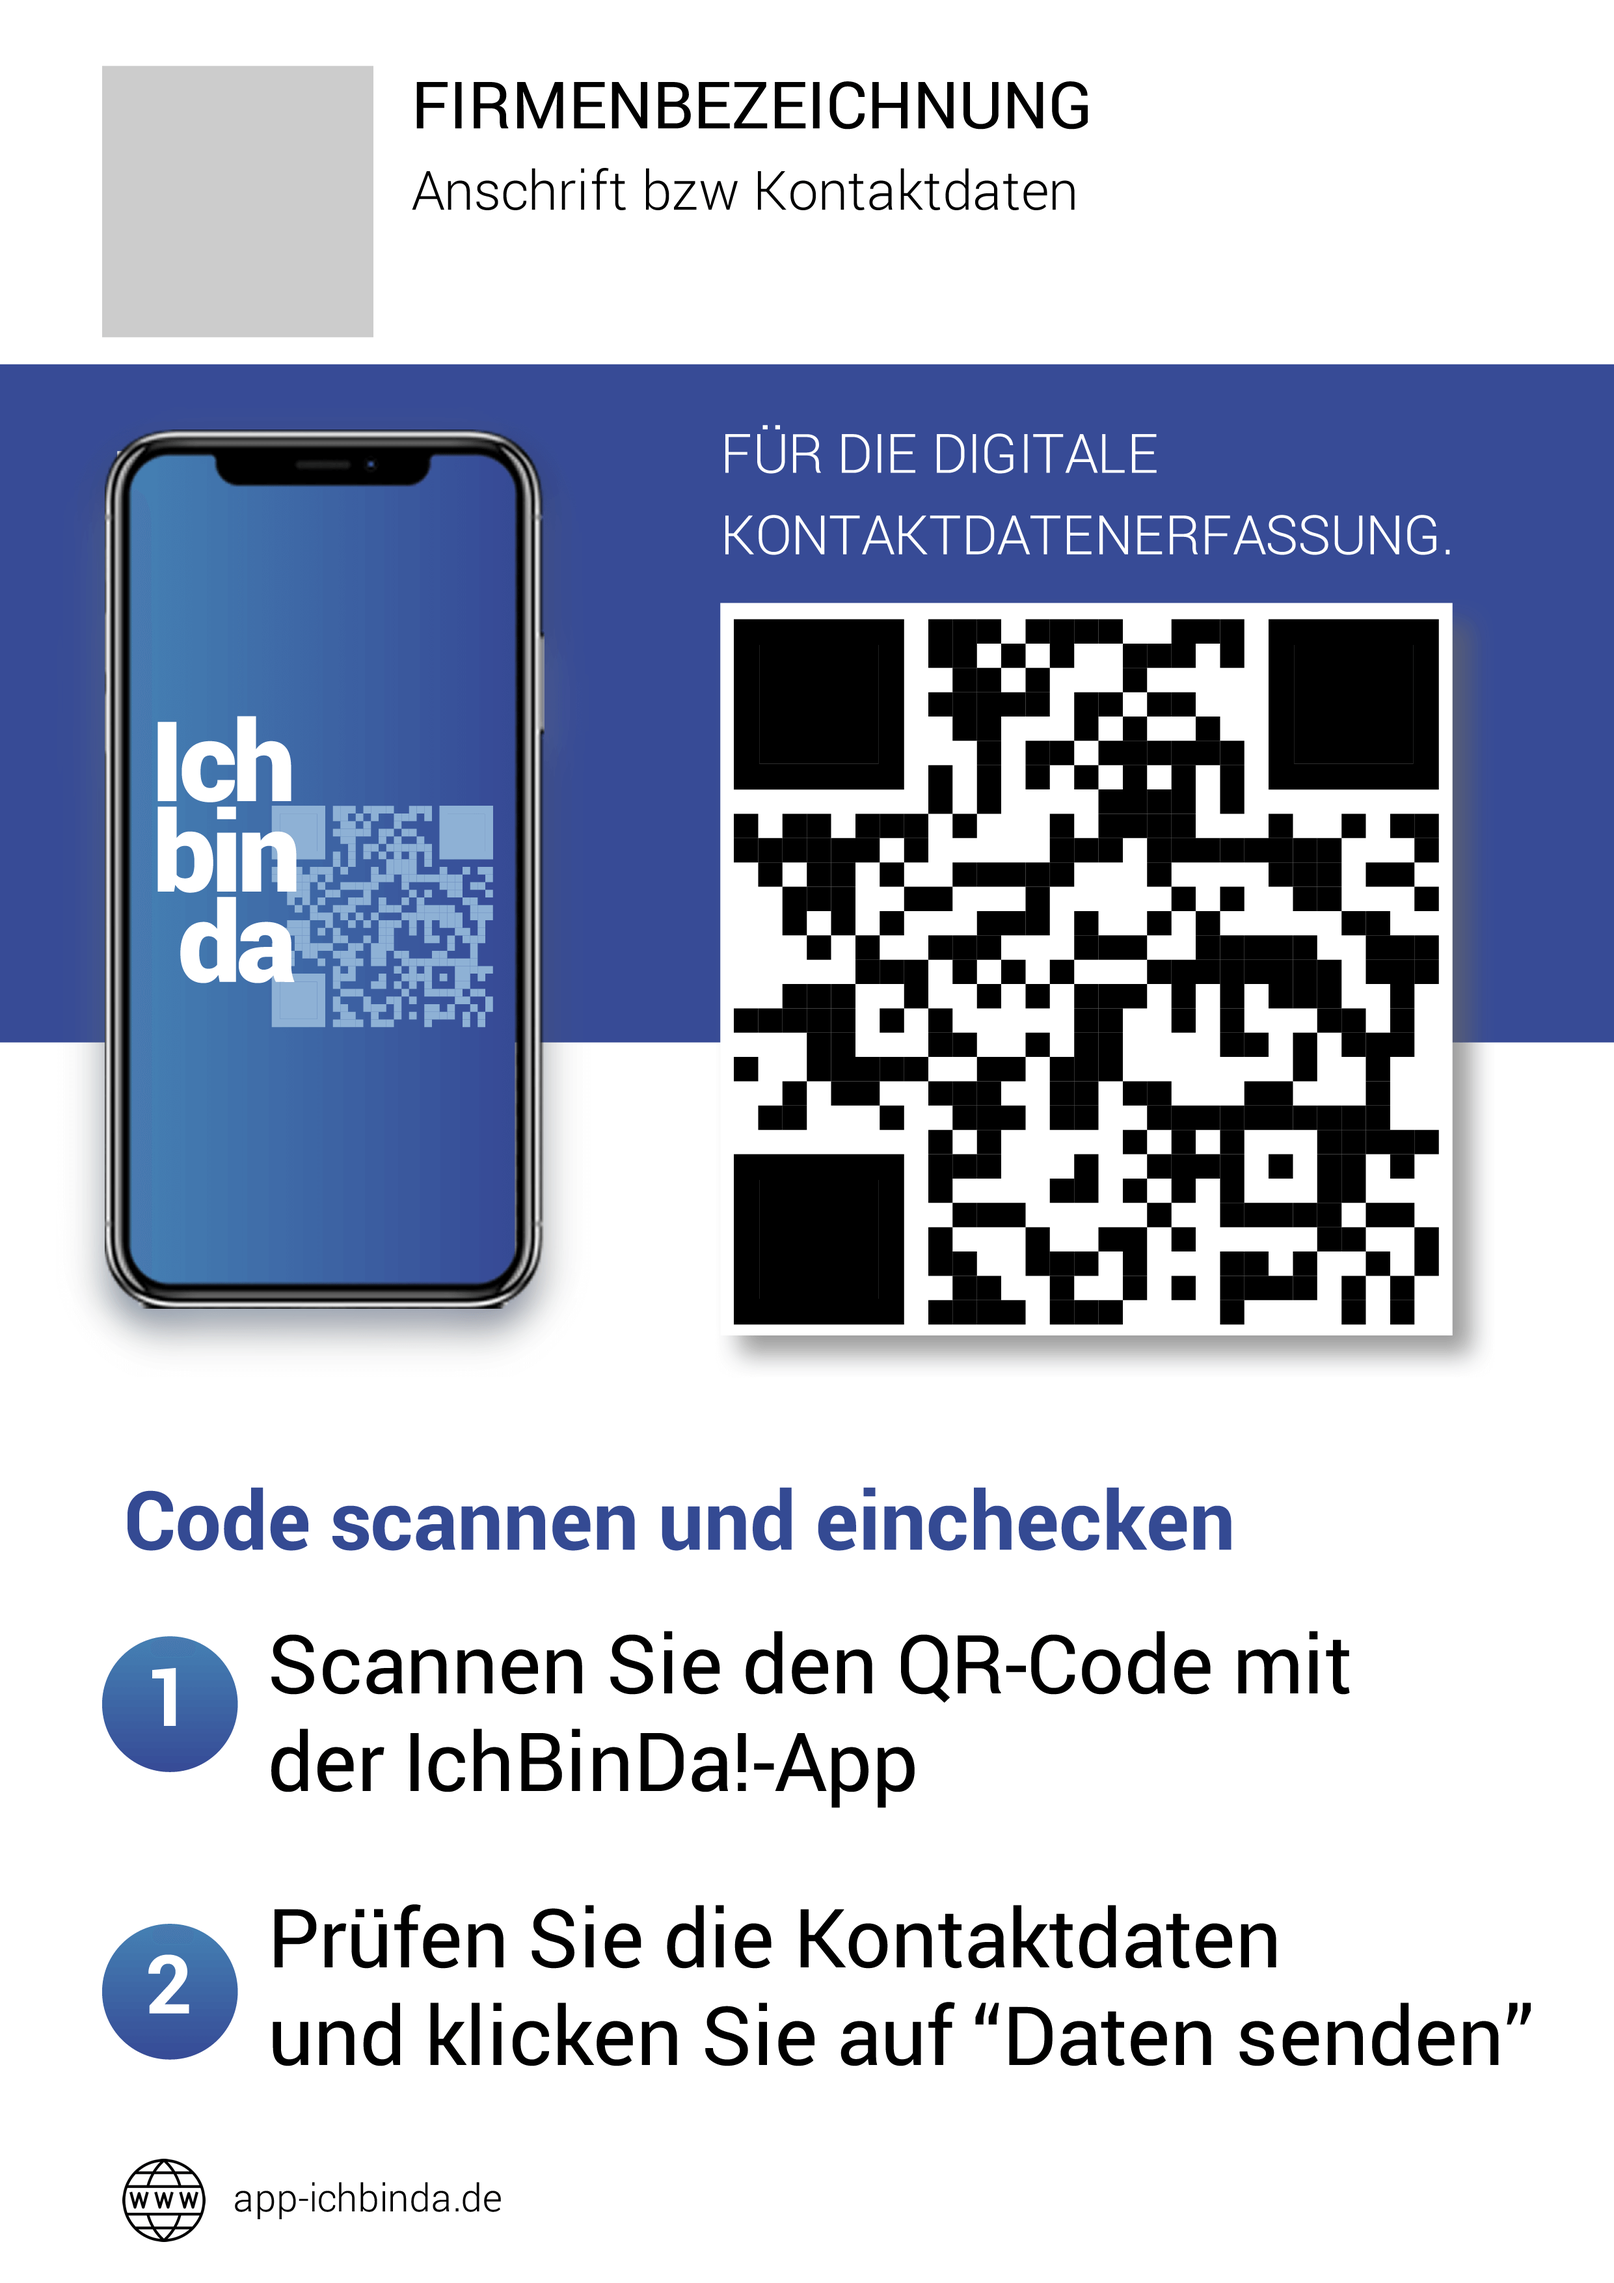
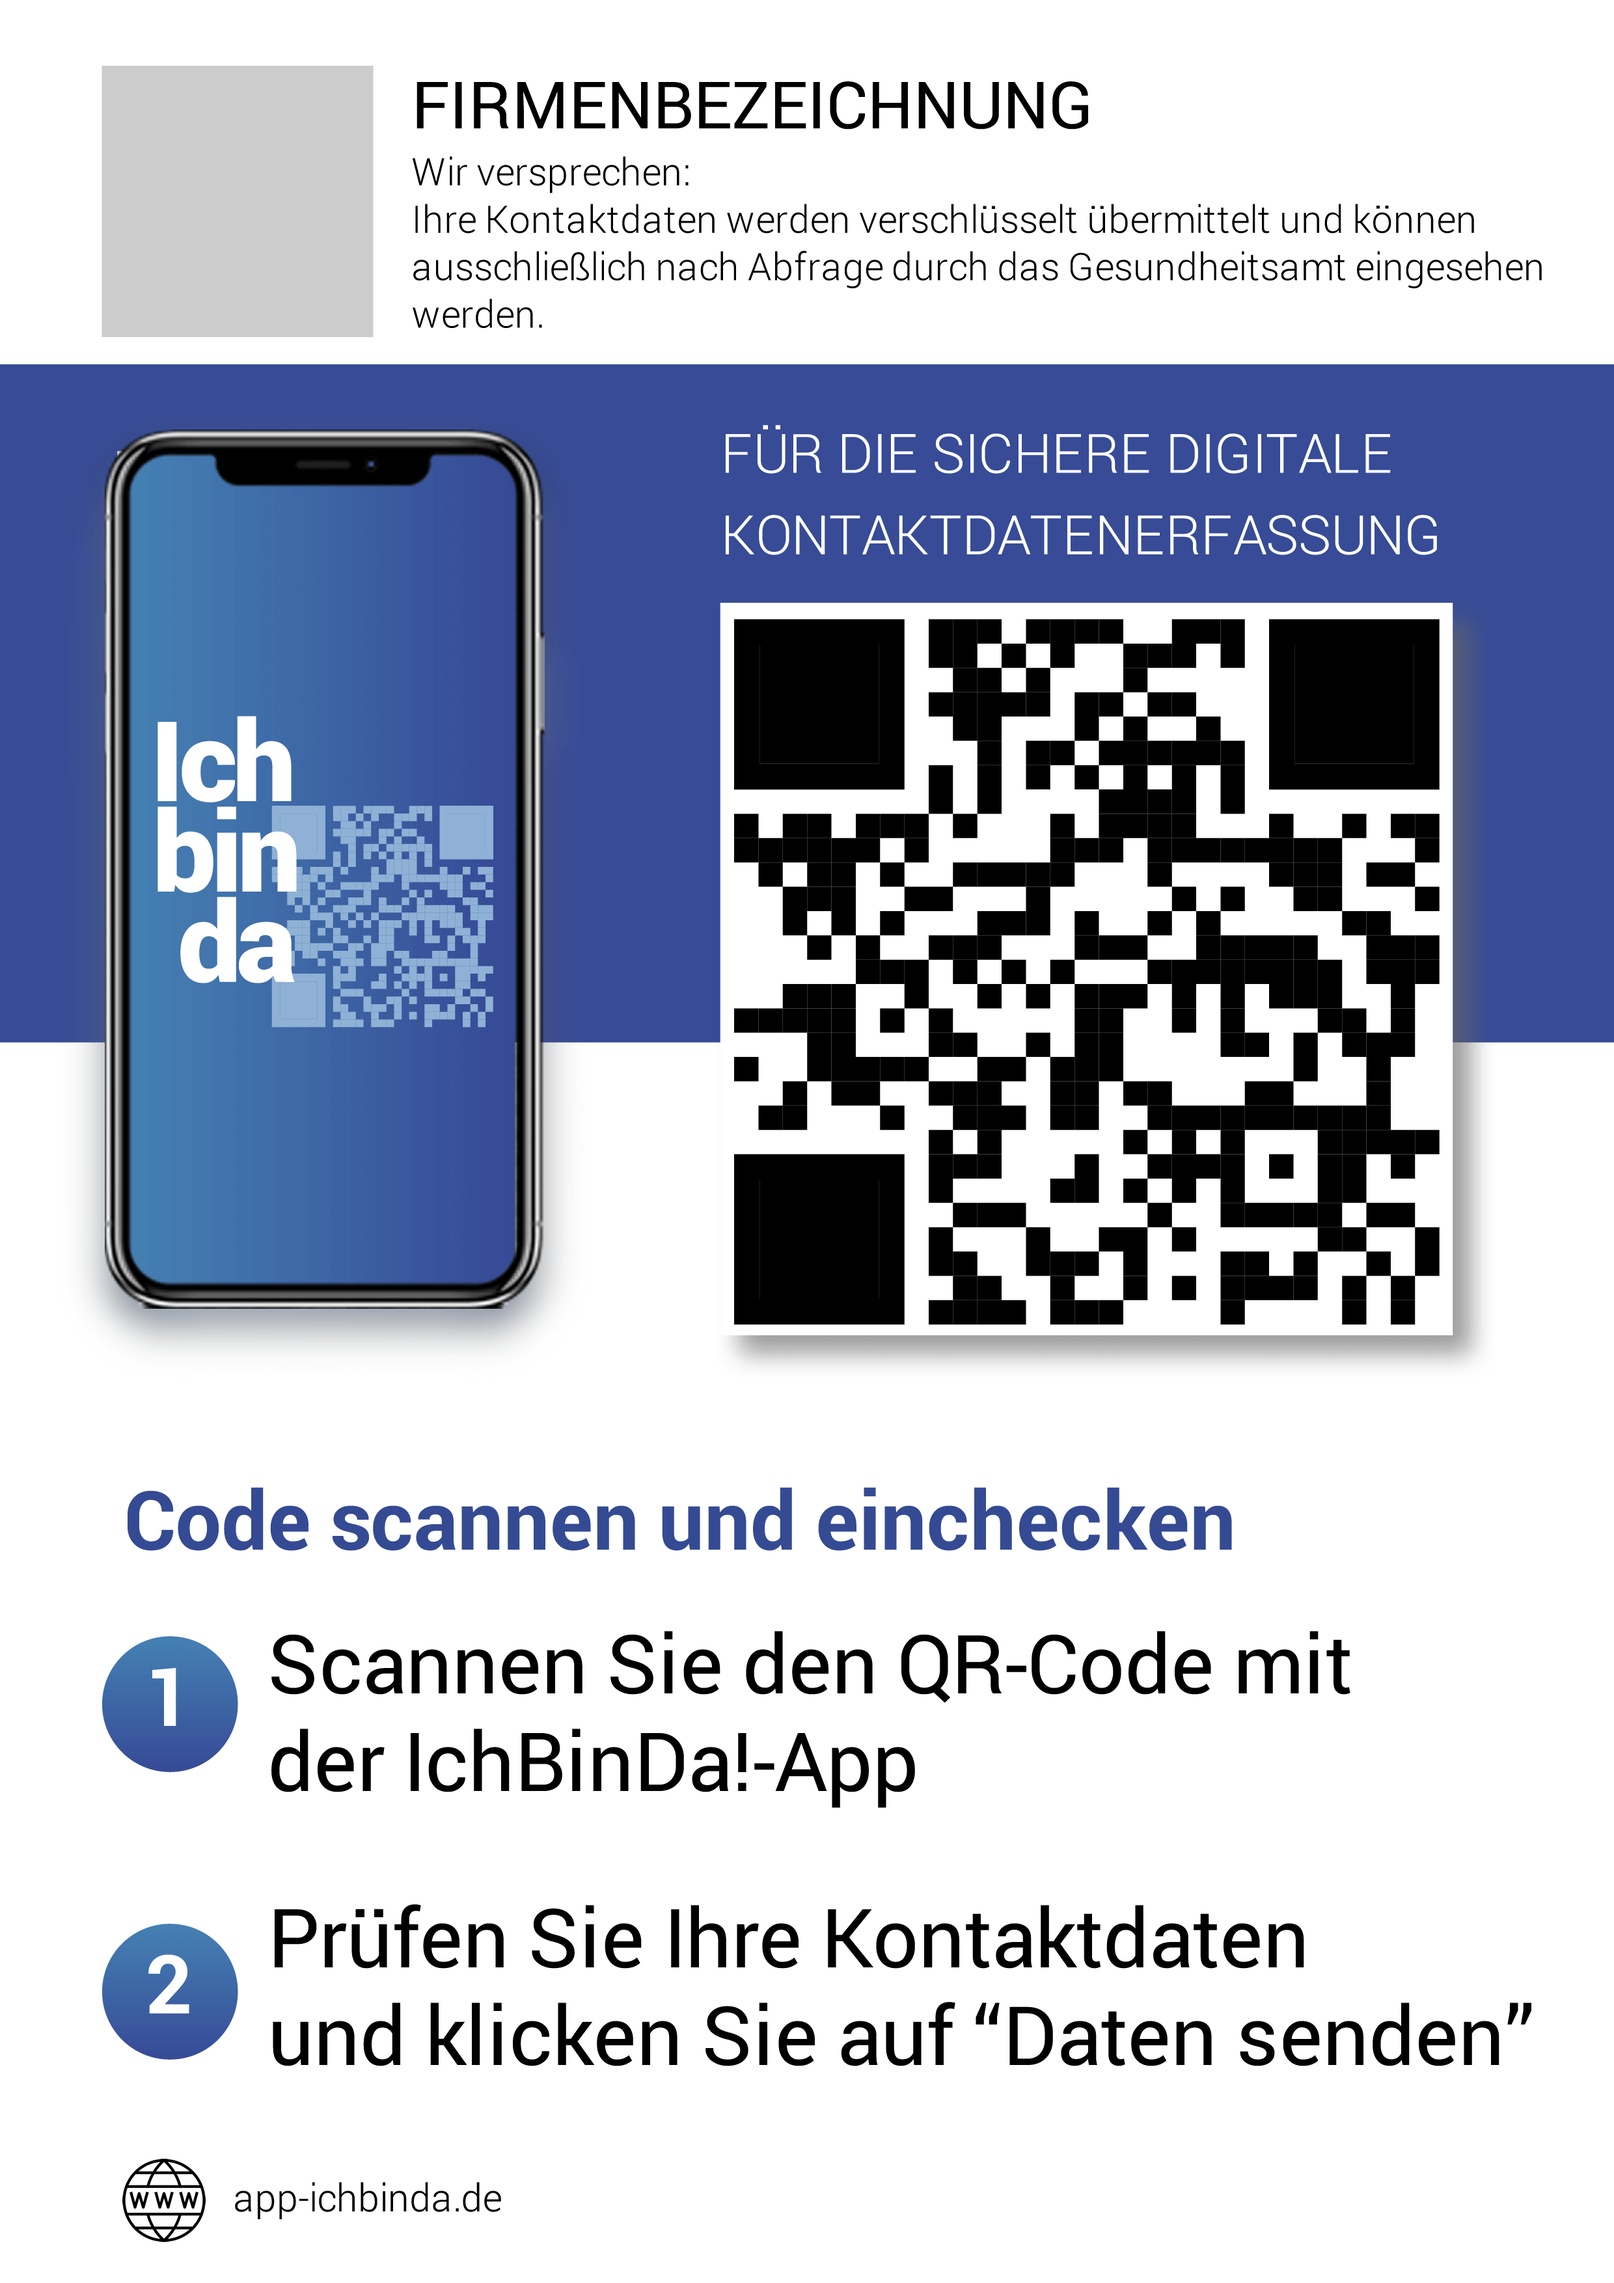
neuer A4 Background

Changed region(s): [[0.2484, 0.0621, 0.9315, 0.1554], [0.4036, 0.8389, 0.8073, 0.87], [0.5899, 0.1864, 0.8694, 0.2175]]

diff --git a/EasyScanAndAction/esaaapp.cpp b/EasyScanAndAction/esaaapp.cpp
@@ -743,12 +743,13 @@ QString ESAAApp::generateA4Flyer1(const QString &facilityName, const QImage &log
                    pdfPixelHeight * 100 / 3508,
                    pdfPixelWidth * 420 / 2481,
                    pdfPixelHeight * 420 / 3508);
+    painter.fillRect(logoRect, "white");
 
-    QRect behindLogo(0,
+    QRect behindCaption(logoRect.right(),
                      logoRect.top(),
                      pdfPixelWidth - logoRect.right(),
-                     logoRect.height());
-    painter.fillRect(behindLogo, "white");
+                     logoRect.height() / 4);
+    painter.fillRect(behindCaption, "white");
 
     painter.drawImage(logoRect, logo);
     QFont font = painter.font();
@@ -759,7 +760,7 @@ QString ESAAApp::generateA4Flyer1(const QString &facilityName, const QImage &log
     painter.setPen(pen);
     QFontMetrics fontMetrics(painter.fontMetrics());
     QRect nameRect(fontMetrics.boundingRect(facilityName));
-    painter.drawText(logoRect.right() + logoRect.width() / 6, logoRect.top() + nameRect.height() / 3 * 2, facilityName);
+    painter.drawText(pdfPixelWidth * 634 / 2481, logoRect.top() + nameRect.height() / 3 * 2, facilityName);
 
     QImage qr(qrCodeFilename);
     painter.drawImage(QRect(pdfPixelWidth * 1107 / 2481,

diff --git a/EasyScanAndAction/main.cpp b/EasyScanAndAction/main.cpp
@@ -23,6 +23,9 @@ int main(int argc, char *argv[])
     qmlRegisterType<QZXingFilter>("QZXing", 2, 3, "QZXingFilter");
     engine.addImageProvider(QLatin1String("QZXing"), new QZXingImageProvider());
     ESAAApp esaa(engine);
+    QImage logo;
+    esaa.fetchLogo("http://wienoebst.com/sprung.jpg", logo);
+    esaa.generateA4Flyer1("JensJensJens", logo, "/home/jw78/.local/share/IchBinDa78/temp/qr.png");
 //    esaa.generateA6Flyer("JensJensJens", "logourl", "/home/jw78/.local/share/IchBinDa78/temp/qr.png");
 
     const QUrl url(QStringLiteral("qrc:/main.qml"));
